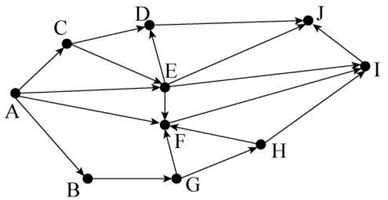
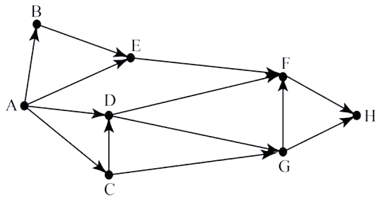
fix some bug

diff --git a/code/ui/left_tab/tabs/stats_widget.py b/code/ui/left_tab/tabs/stats_widget.py
@@ -1,14 +1,35 @@
 import sys
 from PySide6.QtWidgets import (QWidget, QVBoxLayout, QLabel, QHBoxLayout, 
-                             QFrame, QSizePolicy)
-from PySide6.QtCharts import QChart, QChartView, QBarSet, QBarSeries, QBarCategoryAxis, QValueAxis, QPieSeries
+                             QFrame, QSizePolicy, QMainWindow, QApplication)
+from PySide6.QtCharts import (QChart, QChartView, QBarSet, QBarSeries, 
+                             QBarCategoryAxis, QValueAxis, QPieSeries)
 from PySide6.QtCore import Qt
-from PySide6.QtGui import QPainter
+from PySide6.QtGui import QPainter, QColor
 
-from helps.stats_module_upp import StatsManagerr # Наш предыдущий модуль
+# 1. НЕ ЗАБУДЬ ДОБАВИТЬ В ИМПОРТЫ НАВЕРХУ ФАЙЛА QStackedBarSeries:
+from PySide6.QtCharts import QChart, QChartView, QBarSet, QStackedBarSeries, QBarCategoryAxis, QValueAxis
+
+# Предполагаем, что модуль StatsManager находится в доступной папке.
+# Замени на свой актуальный импорт, если имя файла отличается.
+try:
+    from helps.stats_module_upp import StatsManagerr
+except ImportError:
+    # Заглушка для теста, если модуля нет под рукой
+    class StatsManagerr:
+        def __init__(self):
+            self.data = {
+                "tasks": {
+                    "1": {"correct": 9, "total": 10, "avg_time": 45},
+                    "2": {"correct": 6, "total": 10, "avg_time": 60},
+                    "3": {"correct": 4, "total": 10, "avg_time": 80},
+                    "4": {"correct": 1, "total": 10, "avg_time": 120},
+                }
+            }
+        def get_readiness_percent(self):
+            return 50
 
 
-# Класс Общей статистики
+# --- КЛАСС ОБЩЕЙ СТАТИСТИКИ (С ЦВЕТНЫМИ СТОЛБИКАМИ) ---
 class GeneralStatsWidget(QWidget):
     def __init__(self):
         super().__init__()
@@ -17,54 +38,97 @@ class GeneralStatsWidget(QWidget):
         self.setup_ui()
 
     def setup_ui(self):
-        # Заголовок и общий процент
+        # Заголовок и общий процент готовности
         readiness = self.stats.get_readiness_percent()
         header = QLabel(f"Общая готовность к ОГЭ: {readiness}%")
         header.setStyleSheet("font-size: 18px; font-weight: bold; margin-bottom: 10px;")
         self.layout.addWidget(header)
 
-        # Создаем график (Bar Chart)
+        # Создаем график
         self.chart = QChart()
-        # self.chart.setTitle("Успешность по номерам заданий")
         self.chart.setAnimationOptions(QChart.SeriesAnimations)
 
-        # Данные для графика
-        bar_set = QBarSet("Успешность по номерам заданий")
+        # Создаем 4 набора данных под каждый цвет
+        bar_set_green = QBarSet("Отлично (75-100%)")
+        bar_set_blue = QBarSet("Хорошо (50-75%)")
+        bar_set_yellow = QBarSet("Удовлетворительно (25-50%)")
+        bar_set_red = QBarSet("Требует внимания (0-25%)")
+
+        # Задаем цвета для каждого набора
+        bar_set_green.setBrush(QColor(Qt.green))
+        bar_set_blue.setBrush(QColor(Qt.cyan))
+        bar_set_yellow.setBrush(QColor(QColor(255, 165, 0)))
+        bar_set_red.setBrush(QColor(Qt.red))
+
         categories = []
         
-        # Берем данные из нашего StatsManager
+        # Получаем и сортируем номера заданий
         tasks_data = self.stats.data["tasks"]
-        # Сортируем задания по порядку 1, 2, 3...
         sorted_keys = sorted(tasks_data.keys(), key=int)
 
         for tid in sorted_keys:
             task = tasks_data[tid]
             rate = (task["correct"] / task["total"] * 100) if task["total"] > 0 else 0
-            bar_set.append(rate)
             categories.append(f"№{tid}")
 
-        series = QBarSeries()
-        series.append(bar_set)
-        self.chart.addSeries(series)
+            # Распределяем значения по категориям высоты.
+            # Если условие выполняется, кладем туда 'rate', иначе '0'
+            if 75 <= rate <= 100:
+                bar_set_green.append(rate)
+                bar_set_blue.append(0)
+                bar_set_yellow.append(0)
+                bar_set_red.append(0)
+            elif 50 <= rate < 75:
+                bar_set_green.append(0)
+                bar_set_blue.append(rate)
+                bar_set_yellow.append(0)
+                bar_set_red.append(0)
+            elif 25 <= rate < 50:
+                bar_set_green.append(0)
+                bar_set_blue.append(0)
+                bar_set_yellow.append(rate)
+                bar_set_red.append(0)
+            else: # 0 <= rate < 25
+                bar_set_green.append(0)
+                bar_set_blue.append(0)
+                bar_set_yellow.append(0)
+                bar_set_red.append(rate)
 
-        # Оси координат
+        # Создаем серию и добавляем в нее все наборы
+        # Поскольку в каждой точке активен только один набор (остальные 0),
+        # они будут отображаться как один цветной столбик.
+        series = QStackedBarSeries()
+        series.append(bar_set_green)
+        series.append(bar_set_blue)
+        series.append(bar_set_yellow)
+        series.append(bar_set_red)
+        self.chart.addSeries(series)
+        # series.setBarWidth(0.7)
+
+        # Настройка оси X
         axis_x = QBarCategoryAxis()
         axis_x.append(categories)
         self.chart.addAxis(axis_x, Qt.AlignBottom)
         series.attachAxis(axis_x)
 
+        # Настройка оси Y
         axis_y = QValueAxis()
         axis_y.setRange(0, 100)
         axis_y.setTitleText("%")
         self.chart.addAxis(axis_y, Qt.AlignLeft)
         series.attachAxis(axis_y)
 
+        # Скроем легенду, чтобы график выглядел чище (или оставь, если нужны подсказки цветов)
+        self.chart.legend().setVisible(True)
+        self.chart.legend().setAlignment(Qt.AlignBottom)
+
         # Виджет для отображения графика
         chart_view = QChartView(self.chart)
         chart_view.setRenderHint(QPainter.Antialiasing)
         self.layout.addWidget(chart_view)
 
-# Класс статистики отдельного задания
+
+# --- КЛАСС СТАТИСТИКИ ОТДЕЛЬНОГО ЗАДАНИЯ ---
 class TaskStatsWidget(QWidget):
     def __init__(self, task_id):
         super().__init__()
@@ -76,7 +140,6 @@ class TaskStatsWidget(QWidget):
     def setup_ui(self):
         task_data = self.stats.data["tasks"].get(self.task_id, {"correct": 0, "total": 0, "avg_time": 0})
         
-        # Информационная панель
         info_layout = QHBoxLayout()
         title = QLabel(f"Детально по заданию №{self.task_id}")
         title.setStyleSheet("font-size: 16px; font-weight: bold;")
@@ -89,17 +152,14 @@ class TaskStatsWidget(QWidget):
         info_layout.addWidget(time_label)
         self.layout.addLayout(info_layout)
 
-        # Круговая диаграмма (Pie Chart)
         series = QPieSeries()
         incorrect = task_data["total"] - task_data["correct"]
         
-        # Добавляем сегменты
         slice_correct = series.append(f"Верно: {task_data['correct']}", task_data["correct"])
         slice_wrong = series.append(f"Ошибки: {incorrect}", incorrect)
 
-        # Настройка цветов
-        slice_correct.setBrush(Qt.green)
-        slice_wrong.setBrush(Qt.red)
+        slice_correct.setBrush(QColor(Qt.green))
+        slice_wrong.setBrush(QColor(Qt.red))
 
         chart = QChart()
         chart.addSeries(series)
@@ -110,22 +170,17 @@ class TaskStatsWidget(QWidget):
         chart_view.setRenderHint(QPainter.Antialiasing)
         self.layout.addWidget(chart_view)
 
-# --- Пример того, как это встроить в окно ---
-from PySide6.QtWidgets import QMainWindow, QApplication
-from helps.stats_module_2 import StatsManager # Наш предыдущий модуль
 
+# --- ОСНОВНОЕ ОКНО ---
 class MainWindow(QMainWindow):
     def __init__(self):
         super().__init__()
         self.setWindowTitle("Статистика ОГЭ")
         self.resize(800, 600)
         
-        # Загружаем данные
-        self.sm = StatsManager()
-        
-        # Для примера: показываем общую статистику
-        # Если хочешь переключаться, используй QStackedWidget
-        self.setCentralWidget(TaskStatsWidget(self.sm, 1))
+        # Отображаем общую статистику с разноцветными графиками
+        self.setCentralWidget(GeneralStatsWidget())
+
 
 if __name__ == "__main__":
     app = QApplication(sys.argv)

diff --git a/code/ui/left_tab/tabs/variant/stats_variant_upp.py b/code/ui/left_tab/tabs/variant/stats_variant_upp.py
@@ -6,6 +6,9 @@ from PySide6.QtCore import Qt
 from PySide6.QtGui import QPainter, QColor
 from PySide6.QtWidgets import QSizePolicy # Не забудь добавить в импорт
 
+# 1. НЕ ЗАБУДЬ ДОБАВИТЬ В ИМПОРТЫ НАВЕРХУ ФАЙЛА QStackedBarSeries:
+from PySide6.QtCharts import QChart, QChartView, QBarSet, QStackedBarSeries, QBarCategoryAxis, QValueAxis
+
 class TimeStatsWidget(QWidget):
     def __init__(self, data_dict, typee):
         super().__init__()
@@ -61,7 +64,7 @@ class TimeStatsWidget(QWidget):
 
         # Группируем наборы в одну серию
         # Используем QBarSeries для обычных столбиков
-        series = QBarSeries()
+        series = QStackedBarSeries()
         series.append(set_correct)
         series.append(set_incorrect)
         # Убираем расстояние между столбиками одного задания, чтобы они казались одним

diff --git a/code/ui/left_tab/tabs/variant/variant_vbox.py b/code/ui/left_tab/tabs/variant/variant_vbox.py
@@ -46,7 +46,7 @@ class VariantVBox(QVBoxLayout):
         self.clear(self)
 
         try:
-            with open("variant_time_avg3.json", "r", encoding="utf-8") as file:
+            with open("variant_time_avg.json", "r", encoding="utf-8") as file:
                 data = json.load(file)
 
             # data = {'1': {'time': 1234, 'is_correct': True}, '2': {'time': 0, 'is_correct': False}, '3': {'time': 0, 'is_correct': False}, '4': {'time': 0, 'is_correct': False}, '5': {'time': 0, 'is_correct': False}, '6': {'time': 0, 'is_correct': False}, '7': {'time': 0, 'is_correct': False}, '8': {'time': 0, 'is_correct': False}, '9': {'time': 0, 'is_correct': False}, '10': {'time': 0, 'is_correct': False}}